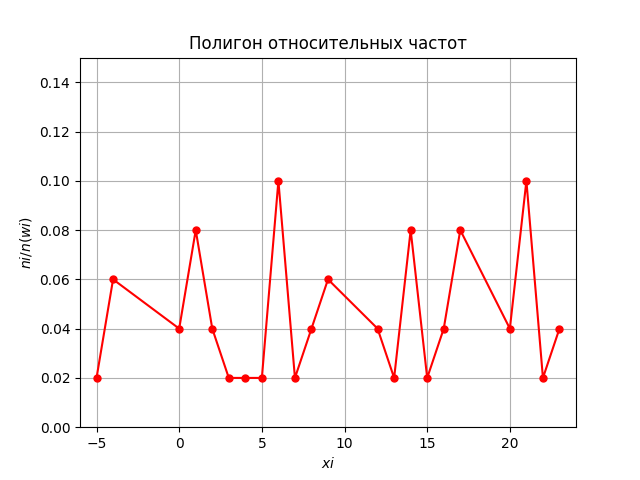
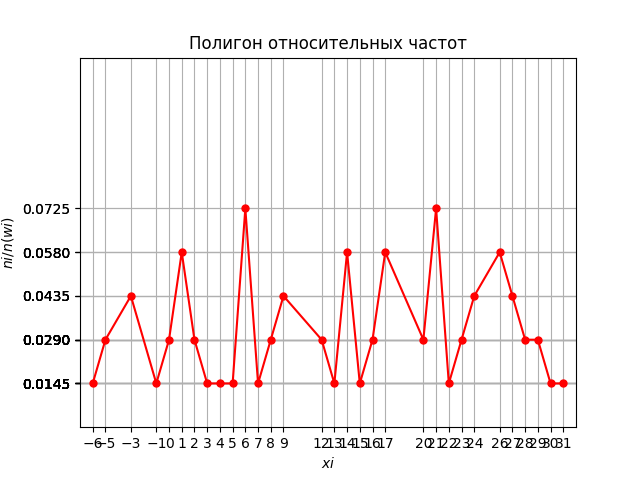
Добавил метки точек на осях

diff --git a/Laba_5/1.py b/Laba_5/1.py
@@ -56,7 +56,7 @@ def F_x (sort_mass,rel_freq):
     strings = []
     variables_to_show = []
     for var in variables:
-        var = float("{0:.4f}".format(var))
+        var = float("{0:.3f}".format(var))
         variables_to_show.append(var)
     for i in range (len(sort_mass)):
         if (i == 0):
@@ -103,6 +103,8 @@ def make_plot_fx (sorted_mass,variables):
         else:
             for i in range(2):
                 y_mass.append(y)
+    plt.xticks(x_mass)
+    plt.yticks(y_mass)
     plt.plot (x_mass,y_mass)
     plt.savefig('f_x_plot.png')
     print ("\nГрафик сохранён в директории " + str(path.abspath('f_x_plot.png')))
@@ -115,6 +117,8 @@ def make_plot_of_freq (mass_x,mass_y):
     plt.xlabel (r'$xi$')
     plt.ylabel(r'$ni$')
     plt.title ("Полигон частот")
+    plt.xticks(mass_x)
+    plt.yticks(mass_y)
     plt.plot (mass_x,mass_y, '-ro',markersize = 5)
     plt.savefig('freq_pol.png')
     print ("\nПолигон сохранён в директории " + str(path.abspath('freq_pol.png')))
@@ -128,6 +132,8 @@ def make_plot_of_rel_freq (mass_x,mass_y):
     plt.ylabel(r'$ni/n (wi)$')
     plt.title ("Полигон относительных частот")
     plt.plot (mass_x,mass_y, '-ro',markersize = 5)
+    plt.xticks(mass_x)
+    plt.yticks(mass_y)
     plt.savefig('rel_freq_pol.png')
     print ("\nПолигон сохранён в директории " + str(path.abspath('rel_freq_pol.png')))
     plt.show()  
@@ -173,15 +179,15 @@ def menu ():
             i = float("{0:.4f}".format(i))
             rel_freq_to_show.append(i)
         print ("wi :  " + str (rel_freq_to_show))
-        make_plot_of_rel_freq(sorted_mass,rel_freq_mass)
+        make_plot_of_rel_freq(sorted_mass,rel_freq_to_show)
         print ("\n")
         system ("pause")
         menu ()
     elif (mode == 4):
         system("cls")
         print ("Эмпирическая функция распределения F*(x) :\n")
-        variables = F_x(sorted_mass,rel_freq_mass)
-        make_plot_fx(sorted_mass,variables)
+        variables_show = F_x(sorted_mass,rel_freq_mass)
+        make_plot_fx(sorted_mass,variables_show)
         print ("\n")
         system ("pause")
         menu ()

diff --git a/Laba_5/plot.py b/Laba_5/plot.py
@@ -1,6 +1,7 @@
-import matplotlib.pyplot as plot
-plot.plot (0,1)
-x = [1,3,3,6]
-y = [2,2,3,3]
-plot.plot(x,y)
-plot.show()
+import matplotlib.pyplot as plt
+
+x_points = [1, 4]
+
+plt.scatter([], [])
+plt.xticks(x_points)
+plt.show()
